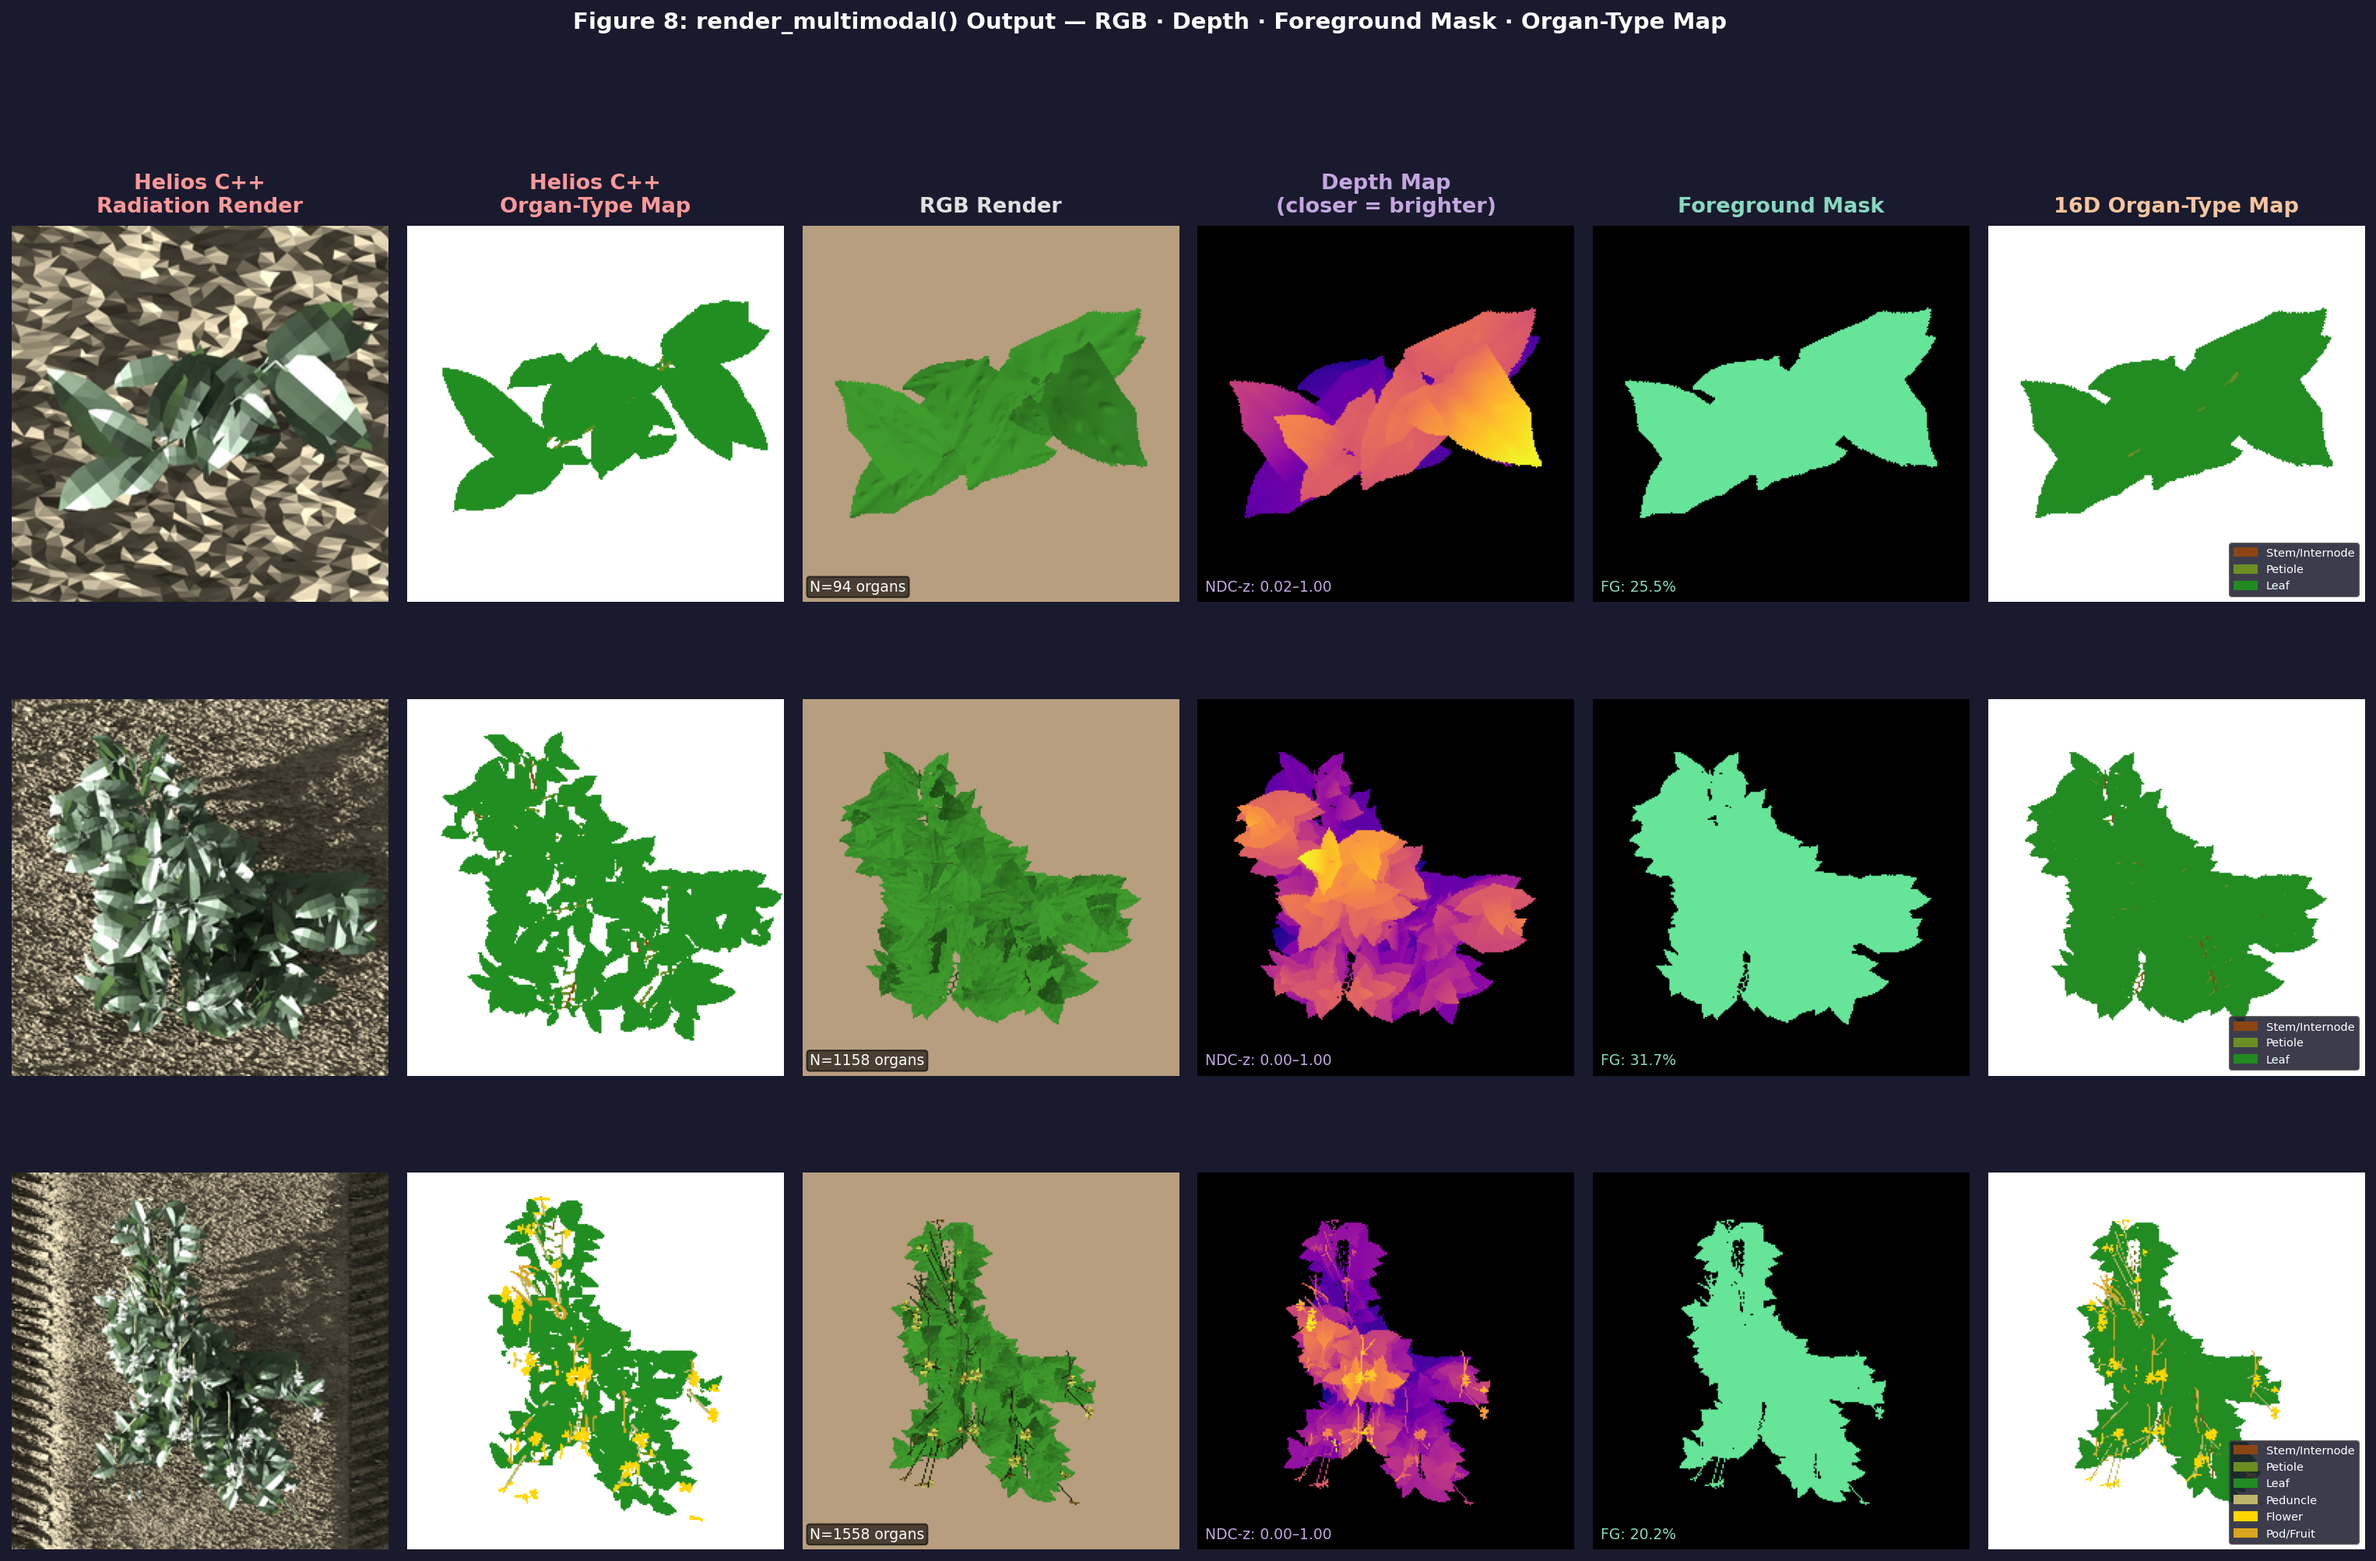
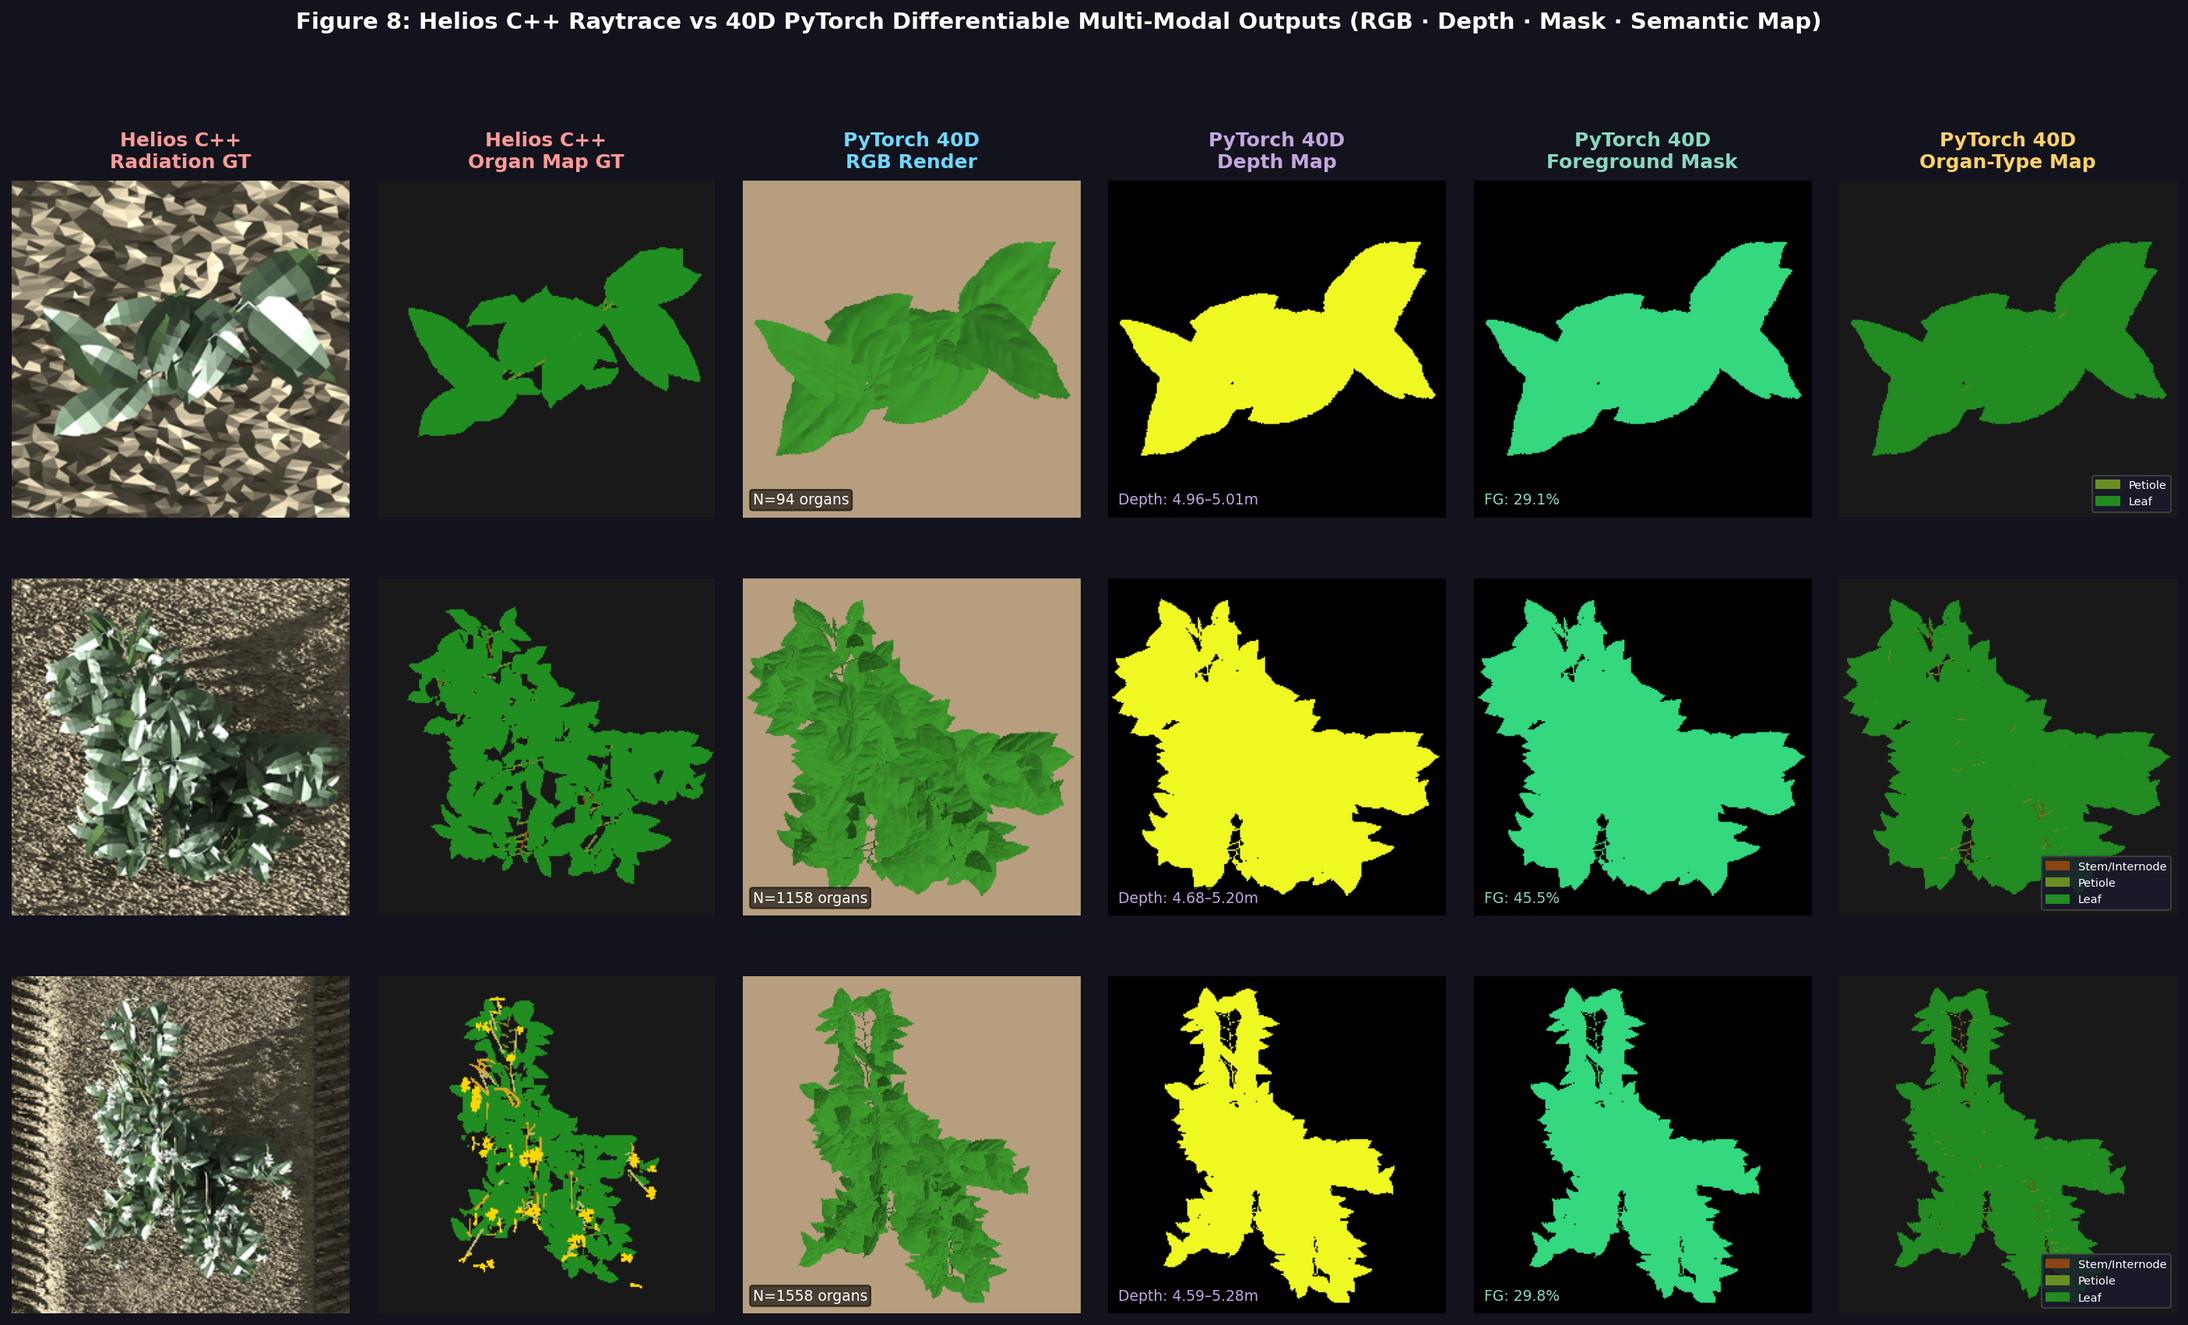
feat(eval): regenerate Fig 8 multi-modal outputs using 40D representation and aligned top-view renderer

diff --git a/diffusion_based/eval/generate_multimodal_outputs.py b/diffusion_based/eval/generate_multimodal_outputs.py
@@ -1,28 +1,24 @@
 """
 Visualize render_multimodal() outputs: RGB, Depth, Foreground Mask, Organ-Type Map.
-Produces fig8_multimodal_depth_mask.png for the benchmark report.
+Produces fig8_multimodal_depth_mask.png using the typed 40D PlantOrganArray and PyTorch Differentiable Renderer.
 """
 import os
 import sys
 import json
+import math
 import numpy as np
 import torch
 import matplotlib
 matplotlib.use("Agg")
 import matplotlib.pyplot as plt
 import matplotlib.patches as mpatches
-from matplotlib.colors import ListedColormap
 from PIL import Image, ImageDraw
 
 repo_root = os.path.abspath(os.path.join(os.path.dirname(__file__), "..", ".."))
 if repo_root not in sys.path:
     sys.path.insert(0, repo_root)
 
-from diffusion_based.models.plant_organ_array import (
-    PlantOrganArray,
-    ORGAN_ROOT_META, ORGAN_SHOOT_META, ORGAN_INTERNODE, ORGAN_PETIOLE,
-    ORGAN_LEAF, ORGAN_BUD, ORGAN_PEDUNCLE, ORGAN_FLOWER, ORGAN_FRUIT, ORGAN_FLOWER_CLOSED,
-)
+from diffusion_based.models.plant_organ_array import PlantOrganArray
 from diffusion_based.models.helios_pytorch_renderer import HeliosPyTorchRenderer
 
 # -----------------------------------------------------------------------
@@ -39,15 +35,18 @@ PLANTS = [
     ("DAP 10\n(Seedling)",
      os.path.join(EXACT_GT_DIR, "rad_dap010_0000_plant_0000.xml"),
      os.path.join(EXACT_GT_DIR, "rad_dap010_0000_rad.jpeg"),
-     os.path.join(EXACT_GT_DIR, "rad_dap010_0000_masks.json")),
+     os.path.join(EXACT_GT_DIR, "rad_dap010_0000_masks.json"),
+     os.path.join(EXACT_GT_DIR, "rad_dap010_0000_camera.json")),
     ("DAP 50\n(Branching)",
      os.path.join(EXACT_GT_DIR, "rad_dap050_0000_plant_0000.xml"),
      os.path.join(EXACT_GT_DIR, "rad_dap050_0000_rad.jpeg"),
-     os.path.join(EXACT_GT_DIR, "rad_dap050_0000_masks.json")),
+     os.path.join(EXACT_GT_DIR, "rad_dap050_0000_masks.json"),
+     os.path.join(EXACT_GT_DIR, "rad_dap050_0000_camera.json")),
     ("DAP 90\n(Mature)",
      os.path.join(EXACT_GT_DIR, "rad_dap090_0000_plant_0000.xml"),
      os.path.join(EXACT_GT_DIR, "rad_dap090_0000_rad.jpeg"),
-     os.path.join(EXACT_GT_DIR, "rad_dap090_0000_masks.json")),
+     os.path.join(EXACT_GT_DIR, "rad_dap090_0000_masks.json"),
+     os.path.join(EXACT_GT_DIR, "rad_dap090_0000_camera.json")),
 ]
 
 # Helios COCO organ category -> display color
@@ -60,10 +59,7 @@ HELIOS_CAT_COLORS = {
     5: (0.85, 0.65, 0.13),   # pod
 }
 
-# Organ type → display color & label
-# NOTE: render_multimodal() keys organ_masks by the MESH organ-type convention
-# (helios_pytorch_geometry.py OT_* constants), NOT the 14D part-tensor convention.
-#   OT_STEM=0, OT_PETIOLE=1, OT_LEAF=2, OT_PEDUNCLE=3, OT_FLOWER=4, OT_FRUIT=5
+# Mesh organ type (OT_*) -> color and label
 ORGAN_META = {
     0: ("#8B4513", "Stem/Internode"),
     1: ("#6B8E23", "Petiole"),
@@ -73,48 +69,20 @@ ORGAN_META = {
     5: ("#DAA520", "Pod/Fruit"),
 }
 
-renderer = HeliosPyTorchRenderer(image_size=IMG_SIZE)
+renderer = HeliosPyTorchRenderer(image_size=IMG_SIZE).to(DEVICE)
 
-def load_plant(xml_path):
-    if not os.path.isabs(xml_path):
-        full = os.path.join(repo_root, xml_path)
-    else:
-        full = xml_path
-    if not os.path.exists(full):
-        return None, None
-    arr = PlantOrganArray.from_xml_file(full)
-    p14 = arr.to_part_tensor(device=DEVICE)
-    return arr, p14
-
-def organ_type_colormap(organ_masks, H, W, device):
-    """Compose a color image from per-organ-type boolean masks."""
-    rgb = np.ones((H, W, 3), dtype=np.float32)  # white background
-    for ot_id, mask in organ_masks.items():
-        color_hex = ORGAN_META.get(ot_id, ("#AAAAAA", "Unknown"))[0]
-        r = int(color_hex[1:3], 16) / 255.0
-        g = int(color_hex[3:5], 16) / 255.0
-        b = int(color_hex[5:7], 16) / 255.0
-        m = mask.cpu().numpy()
-        rgb[m, 0] = r
-        rgb[m, 1] = g
-        rgb[m, 2] = b
-    return rgb
 
 def depth_colormap(depth_tensor):
     """Apply plasma colormap to depth map, black where depth == 0."""
-    d = depth_tensor.cpu().numpy()
+    d = depth_tensor.detach().cpu().numpy()
     cmap = plt.get_cmap("plasma")
     rgb = cmap(d)[:, :, :3].astype(np.float32)
-    rgb[d == 0] = 0  # black background where no plant
+    rgb[d == 0] = 0.0  # black background where no plant
     return rgb
 
-def helios_organ_map(masks_path, H, W):
-    """Rasterize Helios COCO polygon masks into a single organ-type color image.
 
-    The COCO polygon coordinates are given in the *original* image resolution
-    (e.g. 720x720). We must scale them down to the target (H, W) canvas, otherwise
-    the polygons exceed the small canvas bounds and get clipped.
-    """
+def helios_organ_map(masks_path, H, W):
+    """Rasterize Helios COCO polygon masks into a single organ-type color image."""
     data = json.load(open(masks_path))
     src_w = int(data["images"][0].get("width", 720))
     src_h = int(data["images"][0].get("height", 720))
@@ -135,10 +103,26 @@ def helios_organ_map(masks_path, H, W):
             if len(pts) >= 3:
                 draw.polygon(pts, fill=1)
         cat_masks[cat] = np.maximum(cat_masks[cat], np.array(canvas))
-    rgb = np.ones((H, W, 3), dtype=np.float32)  # white background
+    rgb = np.ones((H, W, 3), dtype=np.float32) * 0.1  # dark background
     for cat_id, color in HELIOS_CAT_COLORS.items():
         rgb[cat_masks[cat_id] > 0] = color
     return rgb
+
+
+def organ_buffer_to_rgb(type_buf: torch.Tensor, H: int, W: int) -> np.ndarray:
+    """Map organ type buffer (-1=bg, 0=stem, 1=petiole, 2=leaf, ...) to color image."""
+    buf_np = type_buf.detach().cpu().numpy()
+    rgb = np.ones((H, W, 3), dtype=np.float32) * 0.1  # dark background
+    for ot_id, (hex_col, _) in ORGAN_META.items():
+        r = int(hex_col[1:3], 16) / 255.0
+        g = int(hex_col[3:5], 16) / 255.0
+        b = int(hex_col[5:7], 16) / 255.0
+        mask = (buf_np == ot_id)
+        rgb[mask, 0] = r
+        rgb[mask, 1] = g
+        rgb[mask, 2] = b
+    return rgb
+
 
 # -----------------------------------------------------------------------
 # Figure 8: Multi-Modal Output Visualization
@@ -148,19 +132,45 @@ print("Generating Figure 8: Multi-Modal Render Outputs (RGB / Depth / Mask / Org
 n_rows = len(PLANTS)
 n_cols = 6  # Helios GT | Helios Organ Map | RGB | Depth | FG Mask | Organ Type
 
-fig, axes = plt.subplots(n_rows, n_cols, figsize=(26, 5 * n_rows))
-fig.patch.set_facecolor("#1a1a2e")
-plt.subplots_adjust(wspace=0.05, hspace=0.18)
+fig, axes = plt.subplots(n_rows, n_cols, figsize=(24, 4.2 * n_rows))
+fig.patch.set_facecolor("#12131C")
+plt.subplots_adjust(wspace=0.06, hspace=0.18)
 
-col_titles = ["Helios C++\nRadiation Render", "Helios C++\nOrgan-Type Map", "RGB Render", "Depth Map\n(closer = brighter)", "Foreground Mask", "16D Organ-Type Map"]
-col_colors = ["#ff9999", "#ff9999", "#e0e0e0", "#c3a6e0", "#88d8c0", "#f7c59f"]
+col_titles = [
+    "Helios C++\nRadiation GT",
+    "Helios C++\nOrgan Map GT",
+    "PyTorch 40D\nRGB Render",
+    "PyTorch 40D\nDepth Map",
+    "PyTorch 40D\nForeground Mask",
+    "PyTorch 40D\nOrgan-Type Map"
+]
+col_colors = ["#ff9999", "#ff9999", "#70d6ff", "#c3a6e0", "#88d8c0", "#ffd166"]
 
 for col, (title, color) in enumerate(zip(col_titles, col_colors)):
-    axes[0, col].set_title(title, fontsize=13, fontweight="bold", color=color, pad=8)
+    axes[0, col].set_title(title, fontsize=12, fontweight="bold", color=color, pad=8)
 
-for row, (label, xml_path, helios_path, helios_masks_path) in enumerate(PLANTS):
-    arr, p14 = load_plant(xml_path)
+for row, (label, xml_path, helios_path, helios_masks_path, helios_cam_path) in enumerate(PLANTS):
     ax_row = axes[row]
+
+    if not os.path.exists(xml_path):
+        print(f"Warning: {xml_path} missing")
+        continue
+
+    arr = PlantOrganArray.from_xml_file(xml_path)
+    mesh = renderer.geo_builder.build_mesh_from_organ_array(arr, device=DEVICE, species="cowpea")
+
+    # Read exact camera parameters
+    cam_h = 5.0
+    cam_el = 90.0
+    cam_hfov = None
+    if os.path.exists(helios_cam_path):
+        with open(helios_cam_path, "r") as f:
+            cam_data = json.load(f)
+        f_len = cam_data.get("camera_properties", {}).get("focal_length", 50.0)
+        s_w = cam_data.get("camera_properties", {}).get("sensor_width", 35.0)
+        cam_h = float(cam_data.get("acquisition_properties", {}).get("camera_height_m", 5.0))
+        cam_el = float(cam_data.get("acquisition_properties", {}).get("camera_angle_deg", 90.0))
+        cam_hfov = 2.0 * math.degrees(math.atan((s_w * 0.5) / max(f_len, 1e-3)))
 
     # --- Col 0: Helios C++ GT ---
     ax = ax_row[0]
@@ -193,48 +203,54 @@ for row, (label, xml_path, helios_path, helios_masks_path) in enumerate(PLANTS):
     ax.set_facecolor("#0d0d1a")
     ax.axis("off")
 
-    if arr is None or p14 is None:
-        for ax in ax_row:
-            ax.text(0.5, 0.5, "File not found", ha='center', va='center',
-                    color='red', fontsize=10, transform=ax.transAxes)
-            ax.set_facecolor("#1a1a2e")
-            ax.axis("off")
-        ax_row[0].set_ylabel(label, fontsize=12, color="white", rotation=0,
-                             labelpad=60, va='center')
-        continue
-
-    # Render multimodal
-    out = renderer.render_part_tensor_multimodal(
-        p14,
-        template_organ_array=arr,
+    # Render multimodal PyTorch outputs
+    rgb_t = renderer.render_mesh(
+        mesh,
         azimuth_deg=0.0,
-        elevation_deg=89.88,
-        camera_height=5.0,
-        device=DEVICE,
-        return_depth=True,
-        return_mask=True,
-        return_organ_masks=True,
+        elevation_deg=cam_el,
+        camera_height=cam_h,
+        background="ground",
+        differentiable=False,
+        focus_plant=(cam_hfov is None),
+        hfov_override_deg=cam_hfov,
+        image_size=IMG_SIZE,
+    )
+    depth_t = renderer.render_depth(
+        mesh,
+        azimuth_deg=0.0,
+        elevation_deg=cam_el,
+        camera_height=cam_h,
+        focus_plant=(cam_hfov is None),
+        hfov_override_deg=cam_hfov,
+        image_size=IMG_SIZE,
+    )
+    type_t = renderer.render_organ_type_buffer(
+        mesh,
+        azimuth_deg=0.0,
+        elevation_deg=cam_el,
+        camera_height=cam_h,
+        focus_plant=(cam_hfov is None),
+        hfov_override_deg=cam_hfov,
+        image_size=IMG_SIZE,
     )
 
     H, W = IMG_SIZE, IMG_SIZE
-    rgb_np    = out["rgb"].permute(1, 2, 0).cpu().clamp(0, 1).numpy()
-    depth_np  = depth_colormap(out["depth"])
-    mask_np   = out["mask"].cpu().numpy()
-    organ_np  = organ_type_colormap(out["organ_masks"], H, W, DEVICE)
+    rgb_np = rgb_t.permute(1, 2, 0).detach().cpu().clamp(0, 1).numpy()
+    depth_np = depth_colormap(depth_t)
+    mask_np = (type_t >= 0).detach().cpu().numpy()
+    organ_np = organ_buffer_to_rgb(type_t, H, W)
 
-    # Compute stats for annotation
-    fg_pct    = 100.0 * mask_np.sum() / (H * W)
-    depth_raw = out["depth"].cpu().numpy()
-    d_min     = float(depth_raw[depth_raw > 0].min()) if (depth_raw > 0).any() else 0
-    d_max     = float(depth_raw.max())
+    fg_pct = 100.0 * mask_np.sum() / (H * W)
+    depth_raw = depth_t.detach().cpu().numpy()
+    d_min = float(depth_raw[depth_raw > 0].min()) if (depth_raw > 0).any() else 0
+    d_max = float(depth_raw.max())
 
     # --- Col 2: RGB ---
     ax = ax_row[2]
     ax.imshow(rgb_np)
     ax.set_facecolor("#0d0d1a")
     ax.axis("off")
-    organ_count = p14.shape[0]
-    ax.text(0.02, 0.02, f"N={organ_count} organs", transform=ax.transAxes,
+    ax.text(0.03, 0.03, f"N={arr.num_nodes} organs", transform=ax.transAxes,
             fontsize=9, color='white', va='bottom',
             bbox=dict(boxstyle='round,pad=0.2', facecolor='black', alpha=0.6))
 
@@ -243,30 +259,31 @@ for row, (label, xml_path, helios_path, helios_masks_path) in enumerate(PLANTS):
     ax.imshow(depth_np)
     ax.set_facecolor("#0d0d1a")
     ax.axis("off")
-    ax.text(0.02, 0.02, f"NDC-z: {d_min:.2f}–{d_max:.2f}", transform=ax.transAxes,
+    ax.text(0.03, 0.03, f"Depth: {d_min:.2f}–{d_max:.2f}m", transform=ax.transAxes,
             fontsize=9, color='#c3a6e0', va='bottom',
             bbox=dict(boxstyle='round,pad=0.2', facecolor='black', alpha=0.6))
 
     # --- Col 4: Foreground Mask ---
     ax = ax_row[4]
-    mask_display = np.stack([mask_np * 0.4, mask_np * 0.9, mask_np * 0.6], axis=-1)
+    mask_display = np.stack([mask_np * 0.2, mask_np * 0.85, mask_np * 0.5], axis=-1)
     ax.imshow(mask_display)
     ax.set_facecolor("#0d0d1a")
     ax.axis("off")
-    ax.text(0.02, 0.02, f"FG: {fg_pct:.1f}%", transform=ax.transAxes,
+    ax.text(0.03, 0.03, f"FG: {fg_pct:.1f}%", transform=ax.transAxes,
             fontsize=9, color='#88d8c0', va='bottom',
             bbox=dict(boxstyle='round,pad=0.2', facecolor='black', alpha=0.6))
 
-    # --- Col 5: 16D Organ-Type Map ---
+    # --- Col 5: Organ-Type Map ---
     ax = ax_row[5]
     ax.imshow(organ_np)
     ax.set_facecolor("#0d0d1a")
     ax.axis("off")
-    # Mini legend for present organ types
-    present_types = sorted(out["organ_masks"].keys())
+    # Mini legend
+    present_types = np.unique(type_t.detach().cpu().numpy())
+    present_types = [t for t in present_types if t >= 0]
     patches = []
-    for ot in present_types:
-        meta = ORGAN_META.get(ot, ("#AAAAAA", f"Type {ot}"))
+    for ot in sorted(present_types):
+        meta = ORGAN_META.get(int(ot), ("#AAAAAA", f"Type {ot}"))
         patches.append(mpatches.Patch(color=meta[0], label=meta[1]))
     if patches:
         leg = ax.legend(handles=patches, loc='lower right',
@@ -276,7 +293,7 @@ for row, (label, xml_path, helios_path, helios_masks_path) in enumerate(PLANTS):
 
 # Overall title
 fig.suptitle(
-    "Figure 8: render_multimodal() Output — RGB · Depth · Foreground Mask · Organ-Type Map",
+    "Figure 8: Helios C++ Raytrace vs 40D PyTorch Differentiable Multi-Modal Outputs (RGB · Depth · Mask · Semantic Map)",
     fontsize=14, fontweight='bold', color='white', y=0.995
 )
 
